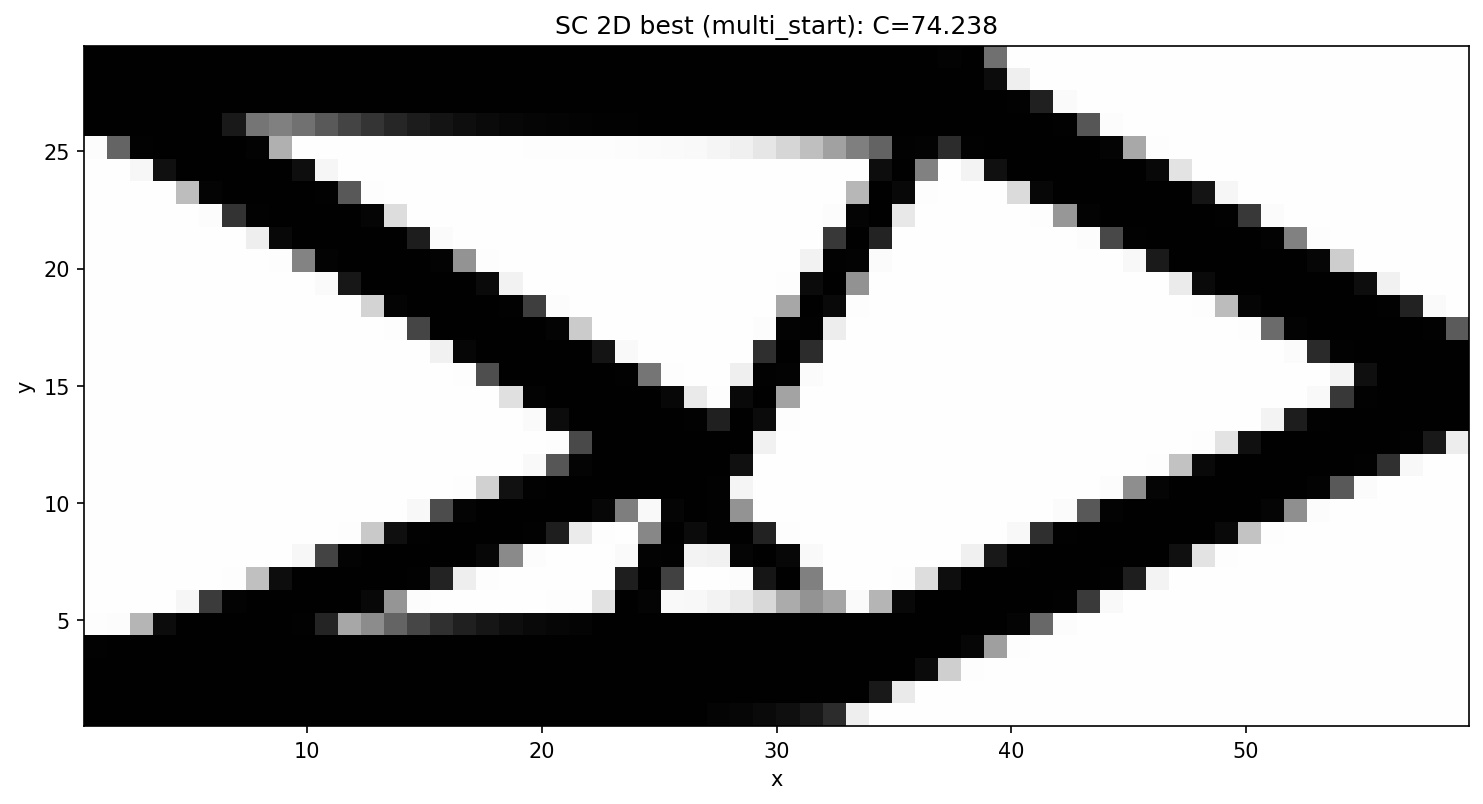
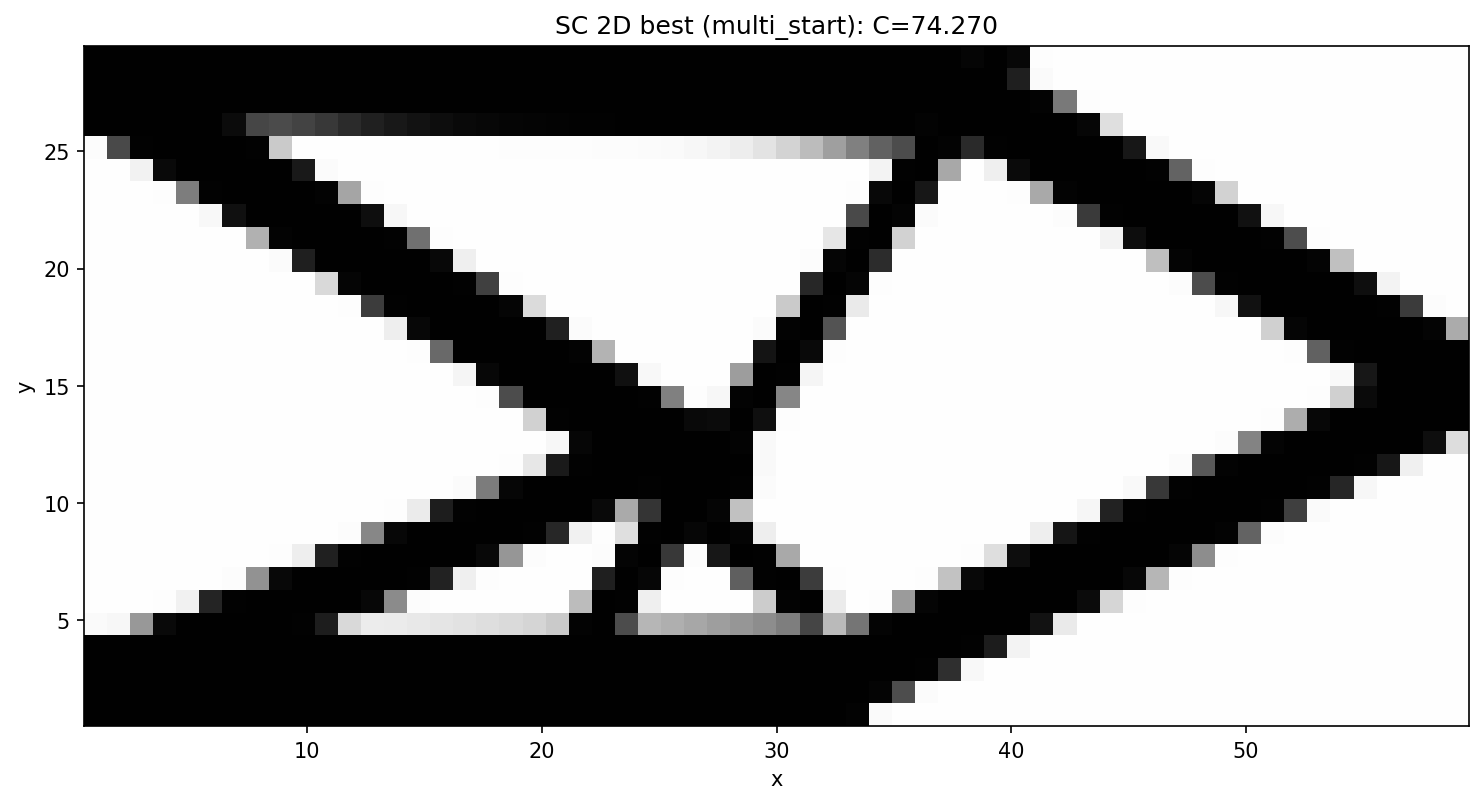
Refresh SC 2D benchmark with deterministic direct-solver results
Reproducible run (seed 0, exact direct LU FEM solver):

  baseline        C = 74.2703
  continuation    C = 73.5163  (+1.02%, the clear winner, below 75)
  multi_start     C = 74.2703  (restarts 76.1-82.2; best-of-N == baseline exactly)
  basin_hopping   C = 74.2703  (explores 76.9-98.7; best == baseline exactly)
  deflated_search C = 74.2703  (distinct minima 76.07, 76.98)

With the exact solver the default/hop0/sol0 runs are bit-identical to the baseline
(all 74.2703), confirming the non-determinism is gone. Update the results + phase
tables, narrative numbers and figures accordingly.

Claude-Session: https://claude.ai/code/session_0139M2jyPc6cJGW33xV6te9t

diff --git a/docs/local_minima_review.md b/docs/local_minima_review.md
@@ -145,26 +145,31 @@ python benchmarks/sc2d_local_minima.py --full     # publication fidelity
 ### 4.1 Results
 
 <!-- BENCHMARK_RESULTS_START -->
-Single consistent run (seed 0, reduced breadth, every solve at the preset's exact
-320-iter MMA config). Improvement is `(baseline − best) / baseline`.
+Single deterministic run (seed 0, reduced breadth, every solve at the preset's exact
+320-iter MMA config, exact `direct` FEM solver). Improvement is `(baseline − best) / baseline`.
 
 | Method | Best compliance | Improvement vs baseline | Runs | Time (s) |
 |---|---|---|---|---|
-| baseline | 74.2387 | +0.00% | 1 | 227 |
-| **continuation** | **73.3648** | **+1.18%** | 4 | 1087 |
-| multi_start | 74.2380 | +0.00% | 5 | 1152 |
-| basin_hopping | 74.3209 | −0.11% | 5 | 1335 |
-| deflated_search | 74.2282 | +0.01% | 3 | 829 |
+| baseline | 74.2703 | +0.00% | 1 | 135 |
+| **continuation** | **73.5163** | **+1.02%** | 4 | 680 |
+| multi_start | 74.2703 | +0.00% | 5 | 690 |
+| basin_hopping | 74.2703 | +0.00% | 5 | 829 |
+| deflated_search | 74.2703 | +0.00% | 3 | 523 |
+
+Because the solver is now exact and deterministic (§4.3), the `default` run inside
+multi-start, `hop0` inside basin hopping and `sol0` inside deflation are *bit-identical*
+to the baseline (all 74.2703) — which is why their best-of-N rows match the baseline
+exactly rather than differing by a fraction of a percent.
 
 Continuation phase trajectory (compliance at each `r_gp`; only the final phase, at the
 baseline's `r_gp = 0.5`, is comparable to the baseline):
 
 | phase | r_gp | C |
 |---|---|---|
-| 0 | 2.0 | 69.22 |
-| 1 | 1.5 | 70.18 |
-| 2 | 1.0 | 71.76 |
-| 3 (reported) | 0.5 | **73.36** |
+| 0 | 2.0 | 69.30 |
+| 1 | 1.5 | 70.08 |
+| 2 | 1.0 | 71.66 |
+| 3 (reported) | 0.5 | **73.52** |
 <!-- BENCHMARK_RESULTS_END -->
 
 **Figures** (written to `docs/_static/`):
@@ -184,7 +189,7 @@ single-X cantilever truss). Against that, the strategies behave as follows.
 
 * **Continuation is the clear winner.** Ramping the sampling radius `r_gp` from a
   *smooth* `2.0` down to the target `0.5`, warm-starting each phase, reaches
-  **C ≈ 73.36** — about **1.2 % below the baseline** (74.24), a genuine improvement
+  **C ≈ 73.52** — about **1.0 % below the baseline** (74.27), a genuine improvement
   (the benchmark uses the exact, deterministic direct solver — see §4.3). The smooth first phase lets the
   bars reorganize in a benign landscape before it is sharpened; jumping straight to
   `r_gp = 0.5` (the baseline) lands in a slightly worse basin. *The comparison is made
@@ -196,7 +201,7 @@ single-X cantilever truss). Against that, the strategies behave as follows.
   init is already near-optimal and that the landscape is genuinely rugged — the whole
   motivation for this work.
 * **Deflation finds *distinct* minima.** Repelling the known optimum drives the solver
-  into different topologies at **C ≈ 75.7–76.9** — exactly the intended behavior
+  into different topologies at **C ≈ 76.1–77.0** — exactly the intended behavior
   (enumerating separate basins); here they are valid but not better.
 * **Basin hopping** explores the incumbent's neighborhood; most perturbations are
   Metropolis-rejected and it settles back at ≈ baseline.
@@ -229,8 +234,9 @@ wave it away:
 **The benchmark therefore pins `fem_solver="direct"`** (≈ 1 s/iter on this 60×30 mesh,
 fully reproducible and with exact gradients); `--fem-solver amjax` is available for
 speed on larger problems at the cost of reproducibility. With the direct solver the
-numbers above are deterministic, so the +1.2 % continuation improvement is a true
-property of the optimization, not solver noise.
+numbers above are deterministic — note that `multi_start/default`, `basin_hopping/hop0`
+and `deflated_search/sol0` come out *exactly* equal to the baseline (74.2703) — so the
++1.0 % continuation improvement is a true property of the optimization, not solver noise.
 
 ## 5. Reproducing & extending
 

diff --git a/benchmarks/sc2d_local_minima_results.md b/benchmarks/sc2d_local_minima_results.md
@@ -1,7 +1,7 @@
 | Method | Best compliance | Improvement vs baseline | Runs | Time (s) |
 |---|---|---|---|---|
-| baseline | 74.2387 | +0.00% | 1 | 227 |
-| continuation | 73.3648 | +1.18% | 4 | 1087 |
-| multi_start | 74.2380 | +0.00% | 5 | 1152 |
-| basin_hopping | 74.3209 | -0.11% | 5 | 1335 |
-| deflated_search | 74.2282 | +0.01% | 3 | 829 |
+| baseline | 74.2703 | +0.00% | 1 | 135 |
+| continuation | 73.5163 | +1.02% | 4 | 680 |
+| multi_start | 74.2703 | +0.00% | 5 | 690 |
+| basin_hopping | 74.2703 | +0.00% | 5 | 829 |
+| deflated_search | 74.2703 | +0.00% | 3 | 523 |
